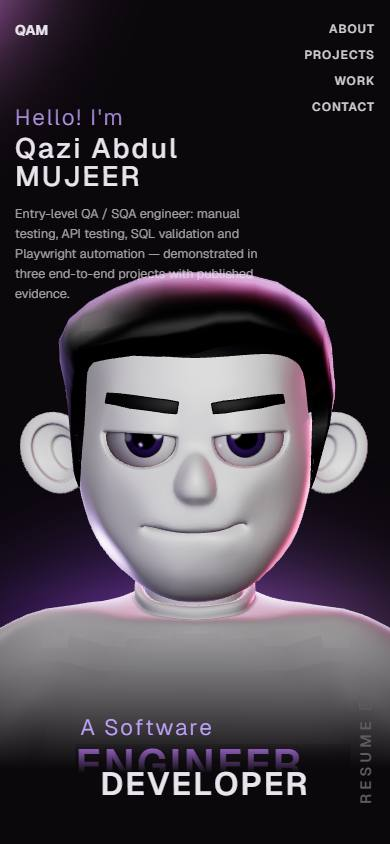
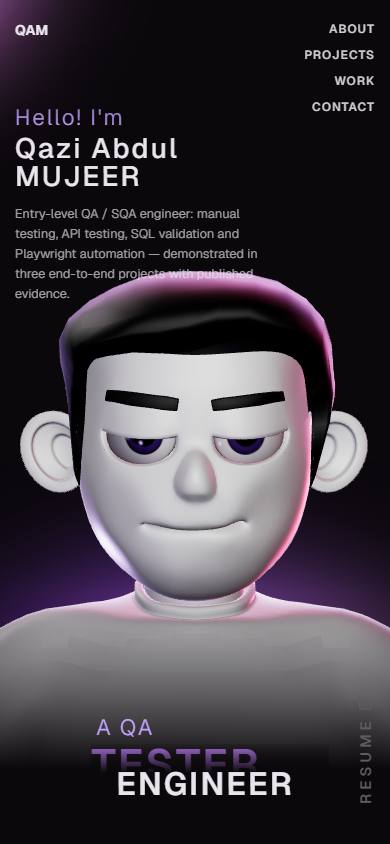
fix(portfolio): make the hero message consistently QA-focused
The left side introduced an entry-level QA/SQA engineer while the animated right side still said 'A Software ENGINEER / DEVELOPER'. The hero now reads 'A QA TESTER / ENGINEER', matching the QA positioning used everywhere else on the site; the loading screen marquee was updated from 'Software Developer / Software Designer' to 'Software Tester / QA Engineer' for the same reason.

diff --git a/src/components/Landing.tsx b/src/components/Landing.tsx
@@ -19,14 +19,14 @@ const Landing = ({ children }: PropsWithChildren) => {
             </p>
           </div>
           <div className="landing-info">
-            <h3>A Software</h3>
+            <h3>A QA</h3>
             <h2 className="landing-info-h2">
-              <div className="landing-h2-1">Engineer</div>
-              <div className="landing-h2-2">Developer</div>
+              <div className="landing-h2-1">Tester</div>
+              <div className="landing-h2-2">Engineer</div>
             </h2>
             <h2>
-              <div className="landing-h2-info">Developer</div>
-              <div className="landing-h2-info-1">Engineer</div>
+              <div className="landing-h2-info">Engineer</div>
+              <div className="landing-h2-info-1">Tester</div>
             </h2>
           </div>
         </div>

diff --git a/src/components/Loading.tsx b/src/components/Loading.tsx
@@ -62,8 +62,8 @@ const Loading = ({ percent }: { percent: number }) => {
       <div className="loading-screen">
         <div className="loading-marquee">
           <Marquee>
-            <span> Software Developer</span> <span> Software Designer</span>
-            <span> Software Developer</span> <span> Software Designer</span>
+            <span> Software Tester</span> <span> QA Engineer</span>
+            <span> Software Tester</span> <span> QA Engineer</span>
           </Marquee>
         </div>
         <div

diff --git a/test-evidence/site-verification.md b/test-evidence/site-verification.md
@@ -1,6 +1,6 @@
 # Portfolio site verification
 
-- Executed: 2026-10-14T00:46:57.146Z
+- Executed: 2026-10-14T01:23:02.661Z
 - Command: `npm run verify:site` (production build served by `vite preview`, driven by Playwright Chromium)
 - Result: **24/24 checks passed**
 
